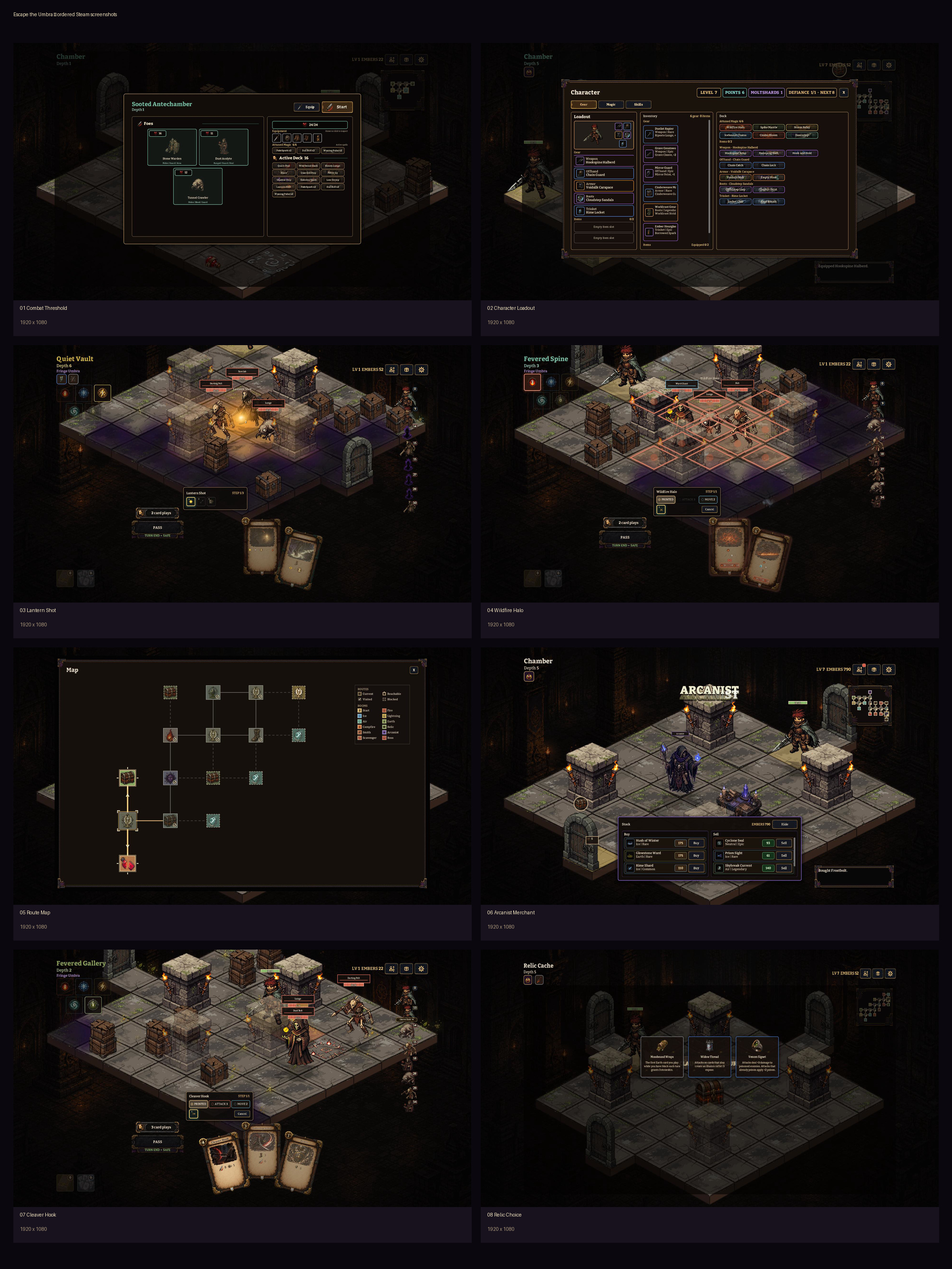
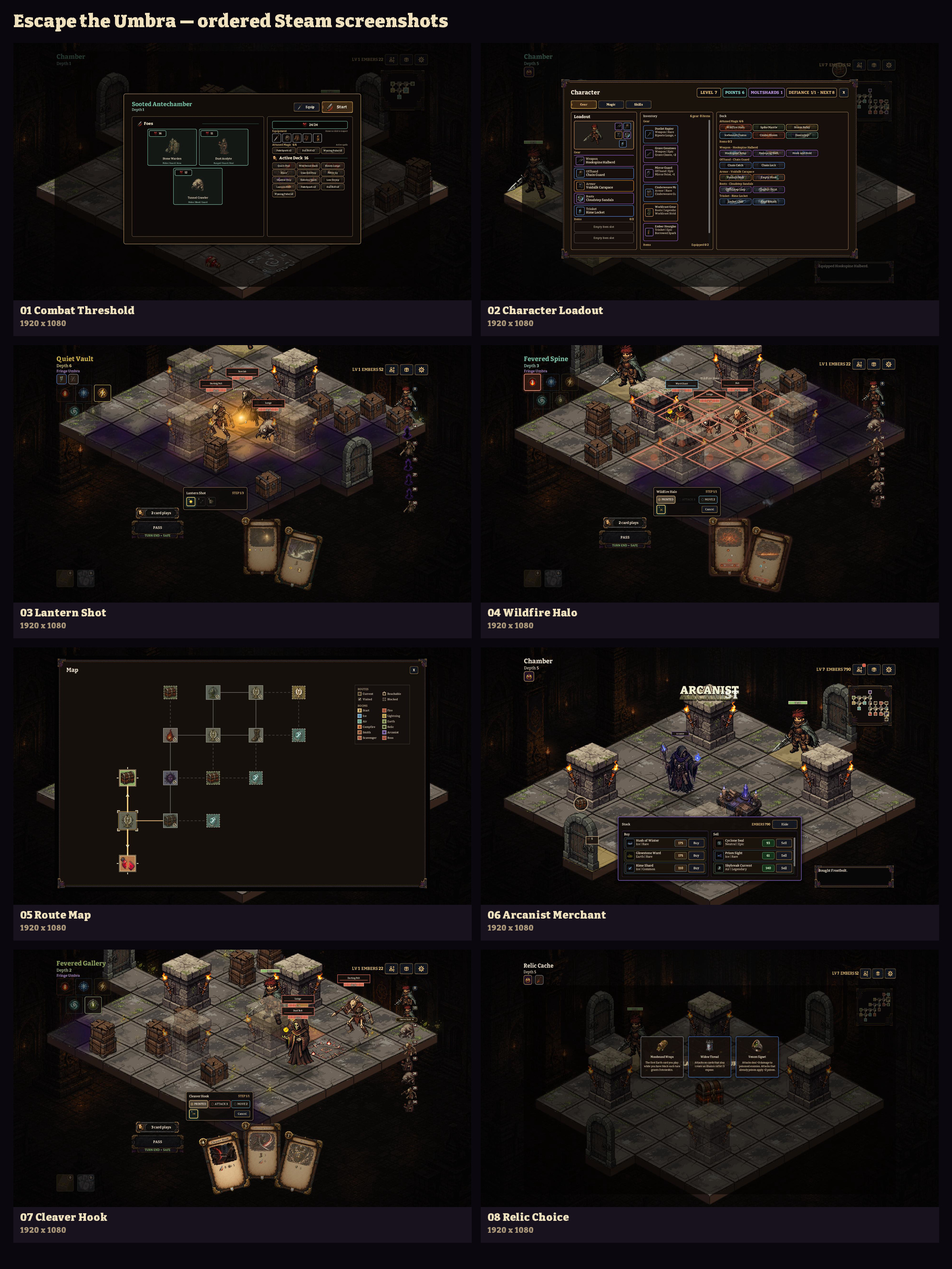
Add current Steam description images

diff --git a/steam/scripts/build_contact_sheets.py b/steam/scripts/build_contact_sheets.py
@@ -18,7 +18,7 @@ MUTED = (170, 151, 122)
 
 
 def _font(size: int) -> ImageFont.FreeTypeFont | ImageFont.ImageFont:
-    font_path = ROOT / "assets" / "fonts" / "LabyrinthCrumble-Display.ttf"
+    font_path = ROOT / "fonts" / "LabyrinthCrumble-Display.ttf"
     if font_path.exists():
         return ImageFont.truetype(str(font_path), size)
     return ImageFont.load_default()
@@ -91,6 +91,10 @@ def main() -> None:
         ("Shortcut icon", ASSETS / "client" / "shortcut_icon.png"),
         ("App icon", ASSETS / "client" / "app_icon.jpg"),
         ("Trailer poster", ASSETS / "trailer" / "poster.jpg"),
+        ("Description: Lantern Shot", ASSETS / "rich-description" / "01-lantern-shot.png"),
+        ("Description: Cleaver Hook", ASSETS / "rich-description" / "02-cleaver-hook.png"),
+        ("Description: Character", ASSETS / "rich-description" / "03-character-loadout.png"),
+        ("Description: Map", ASSETS / "rich-description" / "04-route-map.png"),
     ]
     screenshot_entries = [
         (path.stem.replace("-", " ").title(), path)
@@ -109,6 +113,23 @@ def main() -> None:
         QA / "screenshots-contact-sheet.jpg",
         columns=2,
         preview_size=(960, 540),
+    )
+    comparison_entries = [
+        ("Previous — Lantern Shot", ROOT / "steam" / "source_art" / "rich-description" / "01-lantern-shot-reference.png"),
+        ("Current — Lantern Shot", ASSETS / "rich-description" / "01-lantern-shot.png"),
+        ("Previous — Cleaver Hook", ROOT / "steam" / "source_art" / "rich-description" / "02-cleaver-hook-reference.png"),
+        ("Current — Cleaver Hook", ASSETS / "rich-description" / "02-cleaver-hook.png"),
+        ("Previous — Character", ROOT / "steam" / "source_art" / "rich-description" / "03-character-loadout-reference.png"),
+        ("Current — Character", ASSETS / "rich-description" / "03-character-loadout.png"),
+        ("Previous — Map", ROOT / "steam" / "source_art" / "rich-description" / "04-route-map-reference.png"),
+        ("Current — Map", ASSETS / "rich-description" / "04-route-map.png"),
+    ]
+    _sheet(
+        "Steam rich-description images — previous / current",
+        comparison_entries,
+        QA / "rich-description-comparison.jpg",
+        columns=2,
+        preview_size=(780, 439),
     )
 
 

diff --git a/steam/scripts/generate_rich_description_assets.py b/steam/scripts/generate_rich_description_assets.py
@@ -1,0 +1,41 @@
+#!/usr/bin/env python3
+"""Derive current-build replacements for the live Steam description images."""
+
+from __future__ import annotations
+
+from pathlib import Path
+
+from PIL import Image, ImageOps
+
+
+ROOT = Path(__file__).resolve().parents[2]
+SCREENSHOTS = ROOT / "steam" / "assets" / "screenshots"
+OUTPUT = ROOT / "steam" / "assets" / "rich-description"
+TARGET_SIZE = (1560, 878)
+MAPPINGS = {
+    "01-lantern-shot.png": "03-lantern-shot.png",
+    "02-cleaver-hook.png": "07-cleaver-hook.png",
+    "03-character-loadout.png": "02-character-loadout.png",
+    "04-route-map.png": "05-route-map.png",
+}
+
+
+def main() -> None:
+    OUTPUT.mkdir(parents=True, exist_ok=True)
+    for output_name, screenshot_name in MAPPINGS.items():
+        source = SCREENSHOTS / screenshot_name
+        if not source.is_file():
+            raise FileNotFoundError(f"Capture the Steam screenshots first; missing {source}")
+        with Image.open(source) as image:
+            replacement = ImageOps.fit(
+                image.convert("RGB"),
+                TARGET_SIZE,
+                method=Image.Resampling.LANCZOS,
+                centering=(0.5, 0.5),
+            )
+            replacement.save(OUTPUT / output_name, optimize=True)
+            print((OUTPUT / output_name).relative_to(ROOT))
+
+
+if __name__ == "__main__":
+    main()

diff --git a/steam/scripts/validate_store_assets.py b/steam/scripts/validate_store_assets.py
@@ -27,6 +27,12 @@ REQUIRED_IMAGES = {
     "client/shortcut_icon.png": (512, 512),
     "client/app_icon.jpg": (184, 184),
 }
+RICH_DESCRIPTION_IMAGES = {
+    "rich-description/01-lantern-shot.png": (1560, 878),
+    "rich-description/02-cleaver-hook.png": (1560, 878),
+    "rich-description/03-character-loadout.png": (1560, 878),
+    "rich-description/04-route-map.png": (1560, 878),
+}
 
 
 def _validate_image(path: Path, expected_size: tuple[int, int]) -> list[str]:
@@ -85,6 +91,8 @@ def main() -> int:
     errors = []
     for relative, expected_size in REQUIRED_IMAGES.items():
         errors.extend(_validate_image(ASSET_ROOT / relative, expected_size))
+    for relative, expected_size in RICH_DESCRIPTION_IMAGES.items():
+        errors.extend(_validate_image(ASSET_ROOT / relative, expected_size))
 
     screenshots = sorted((ASSET_ROOT / "screenshots").glob("*.png"))
     if len(screenshots) != 8:
@@ -99,7 +107,7 @@ def main() -> int:
         for error in errors:
             print(f"ERROR: {error}", file=sys.stderr)
         return 1
-    print("Validated 11 images, 8 screenshots, trailer poster, and Steam-ready trailer codecs")
+    print("Validated 11 standard images, 4 rich-description images, 8 screenshots, trailer poster, and Steam-ready trailer codecs")
     return 0
 
 

diff --git a/steam/assets/UPLOAD_MANIFEST.md b/steam/assets/UPLOAD_MANIFEST.md
@@ -31,6 +31,19 @@ Upload the PNGs in filename order so the first four tell the combat-to-progressi
 
 Every screenshot is a cursor-free, current-build 1920 × 1080 capture with the gameplay composition preserved and the UI safely inset for Steam cropping.
 
+## Rich-description images
+
+These four images are embedded in the English store description. Replace each live image with its composition-matched current-build PNG without changing the surrounding copy or image order. Steam may transcode the uploaded PNGs to AVIF automatically.
+
+| Existing live image | Replacement | Composition |
+| --- | --- | --- |
+| `extras/aa79868f768b4d38a4fc4f6c68dddd96.avif` | `rich-description/01-lantern-shot.png` | Lantern Shot targeting |
+| `extras/38d407f3583c2250b763fe3fc1ca0744.avif` | `rich-description/02-cleaver-hook.png` | Cleaver Hook targeting |
+| `extras/a96001d098eef695f7f588fba3db6a08.avif` | `rich-description/03-character-loadout.png` | Character/loadout panel |
+| `extras/1cbed662c75a18c3a1a235f1cbd76b67.avif` | `rich-description/04-route-map.png` | Route map |
+
+Each replacement is 1560 × 878, matching the current live image dimensions. If the rich-text editor will not accept an automated file selection, drag each file onto its matching image slot and verify the preview before saving.
+
 ## Library assets
 
 | Steamworks field | File | Dimensions |
@@ -60,6 +73,7 @@ The trailer is 57.47 seconds. It preserves the existing composition, pacing, mus
 
 - `../qa/store-assets-contact-sheet.jpg` shows every still asset together.
 - `../qa/screenshots-contact-sheet.jpg` shows screenshot order and crop safety.
+- `../qa/rich-description-comparison.jpg` pairs each previous live description image with its current-build replacement.
 - `../qa/trailer-audit/audit-manifest.json` records the final trailer stream metadata and SHA-256.
 - `../qa/trailer-audit/master-sheet.png` covers the full edit at one frame per second.
 - `../qa/trailer-audit/focus-final-crumble-1596-1715.png` proves the filled-title arrival and crumble reveal.

diff --git a/steam/README.md b/steam/README.md
@@ -9,6 +9,7 @@ From the repository root:
 ```bash
 python3 steam/scripts/generate_store_assets.py
 bash steam/scripts/capture_store_screenshots.sh
+# The capture script also derives the four rich-description replacements.
 python3 steam/scripts/build_contact_sheets.py
 python3 steam/scripts/validate_store_assets.py
 ```
